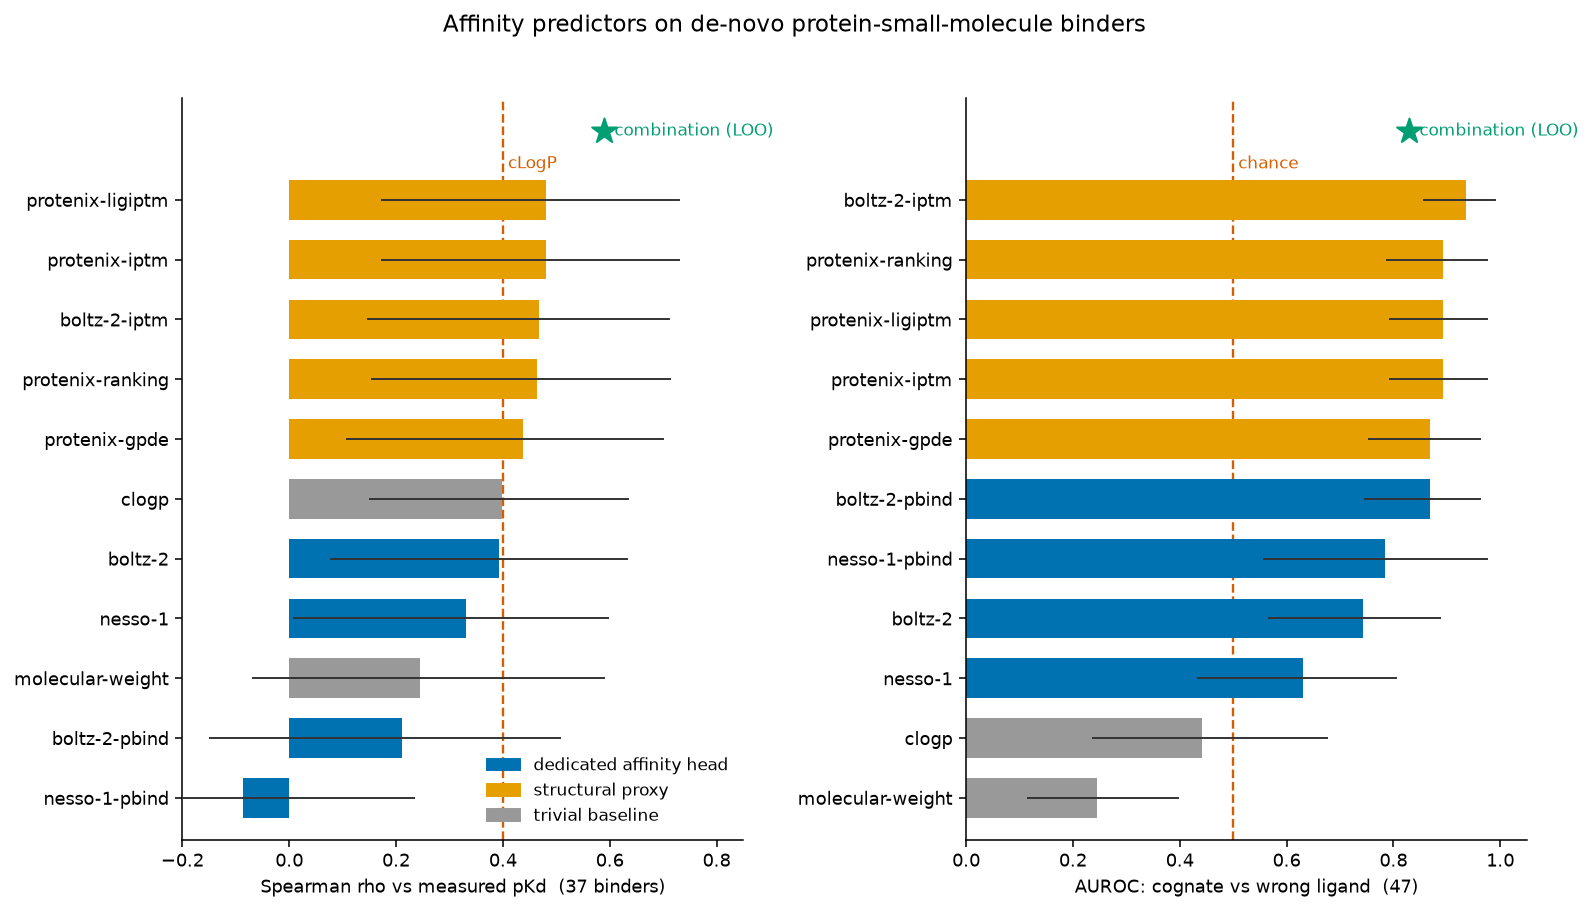
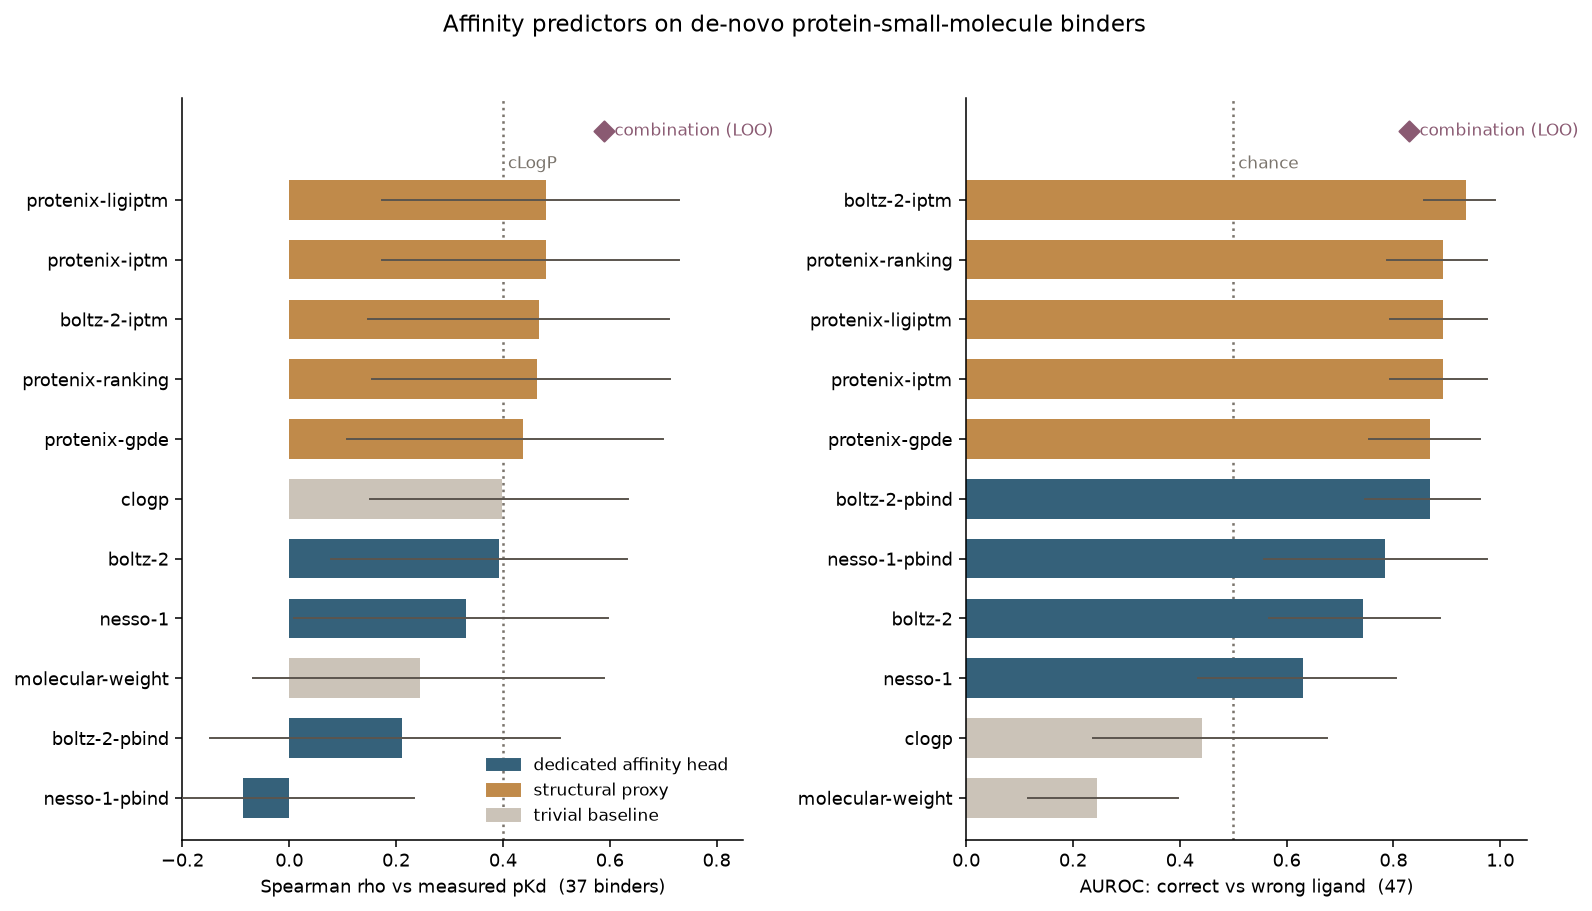
Minimal README + muted palette; rename cognate->correct; drop tests (CI lint-only)

diff --git a/scripts/make_figure.py b/scripts/make_figure.py
@@ -1,7 +1,7 @@
 """Two-panel benchmark figure: rank-affinity (Spearman, binders) and specificity (AUROC, all rows).
 
-Left: how well each method ranks measured pKd among the 37 binders (dashed = cLogP baseline, star =
-leave-one-out combination). Right: cognate vs wrong ligand (dashed = chance). Data + stats: score.py.
+Left: how well each method ranks measured pKd among the 37 binders (dotted = cLogP baseline, diamond
+= leave-one-out combination). Right: correct vs wrong ligand (dotted = chance). Stats: score.py.
 """
 
 from pathlib import Path
@@ -16,7 +16,8 @@ ROOT = Path(__file__).resolve().parents[1]
 CAT = {"boltz-2": "aff", "boltz-2-pbind": "aff", "nesso-1": "aff", "nesso-1-pbind": "aff",
        "boltz-2-iptm": "prox", "protenix-iptm": "prox", "protenix-ligiptm": "prox",
        "protenix-gpde": "prox", "protenix-ranking": "prox", "clogp": "base", "molecular-weight": "base"}
-COL = {"aff": "#0072B2", "prox": "#E69F00", "base": "#999999"}
+COL = {"aff": "#35617a", "prox": "#c08a4a", "base": "#cbc3b8"}   # muted slate / ochre / stone
+ACCENT, REF, WHISK = "#8a5a72", "#7a746c", "#5b554e"            # plum accent, neutral refs
 LABEL = {"aff": "dedicated affinity head", "prox": "structural proxy", "base": "trivial baseline"}
 COMBO_RHO, COMBO_AUROC = 0.59, 0.83   # leave-one-out CV, from score.py
 
@@ -26,11 +27,11 @@ def bars(ax, data, ref, ref_label, xlabel, combo, xlim):
     n = len(data); ys = range(n)
     for y, (k, v, lo, hi) in zip(ys, data):
         ax.barh(y, v, color=COL[CAT[k]], height=0.66, zorder=2)
-        ax.plot([lo, hi], [y, y], color="#333333", lw=1.0, zorder=3)
-    ax.axvline(ref, ls="--", lw=1.2, color="#D55E00", zorder=1)
-    ax.text(ref, n - 0.4, f" {ref_label}", color="#D55E00", fontsize=8.5, ha="left", va="center")
-    ax.scatter([combo], [n + 0.15], marker="*", s=180, color="#009E73", zorder=4, clip_on=False)
-    ax.text(combo, n + 0.15, "  combination (LOO)", color="#009E73", fontsize=8.5, va="center")
+        ax.plot([lo, hi], [y, y], color=WHISK, lw=1.0, zorder=3)
+    ax.axvline(ref, ls=":", lw=1.3, color=REF, zorder=1)
+    ax.text(ref, n - 0.4, f" {ref_label}", color=REF, fontsize=8.5, ha="left", va="center")
+    ax.scatter([combo], [n + 0.15], marker="D", s=54, color=ACCENT, zorder=4, clip_on=False)
+    ax.text(combo, n + 0.15, "  combination (LOO)", color=ACCENT, fontsize=8.5, va="center")
     ax.set_yticks(list(ys)); ax.set_yticklabels([k for k, *_ in data], fontsize=9.5)
     ax.set_ylim(-0.7, n + 0.7)
     ax.set_xlabel(xlabel, fontsize=9.5); ax.set_xlim(*xlim)
@@ -53,7 +54,7 @@ def main():
 
     fig, (a, b) = plt.subplots(1, 2, figsize=(11.5, 6.6))
     bars(a, reg, 0.40, "cLogP", "Spearman rho vs measured pKd  (37 binders)", COMBO_RHO, (-0.2, 0.85))
-    bars(b, spec, 0.5, "chance", "AUROC: cognate vs wrong ligand  (47)", COMBO_AUROC, (0.0, 1.05))
+    bars(b, spec, 0.5, "chance", "AUROC: correct vs wrong ligand  (47)", COMBO_AUROC, (0.0, 1.05))
     handles = [plt.Rectangle((0, 0), 1, 1, color=COL[c]) for c in ("aff", "prox", "base")]
     a.legend(handles, [LABEL[c] for c in ("aff", "prox", "base")], fontsize=8.5,
              loc="lower right", frameon=False)

diff --git a/scripts/score.py b/scripts/score.py
@@ -3,7 +3,7 @@
 Joins reference/experimental_reference_ground_truth.csv with every predictions/*_predictions.csv
 (by id) and evaluates:
   regression   on the 37 binders: does a method rank measured pKd? (Spearman/Pearson/RMSE + CI)
-  specificity  on all 47: can a method tell the cognate ligand from the wrong one? (AUROC)
+  specificity  on all 47: can a method tell the correct ligand from the wrong one? (AUROC)
   combine      leave-one-out CV: do methods combine to beat the best single one?
 """
 
@@ -99,7 +99,7 @@ def regression(rows, methods):
 
 
 def specificity(rows, methods):
-    print(f"\n== Specificity: cognate vs wrong ligand (AUROC, n={len(rows)}) ==")
+    print(f"\n== Specificity: correct vs wrong ligand (AUROC, n={len(rows)}) ==")
     print(f"{'method':20s}{'AUROC [95% CI]':>22s}")
     for m in methods:
         v = [(r[m], r["is_binder"]) for r in rows if r.get(m) is not None]

diff --git a/README.md b/README.md
@@ -1,82 +1,68 @@
 # de-novo small-molecule affinity benchmark
 
-Do protein-ligand affinity predictors work on **de-novo designed** binders? Existing affinity
-leaderboards score them on natural targets. This is a small, clean, complementary split built
-entirely from published de-novo designs: **47 protein-ligand pairs**, each a designed protein plus a
-small molecule, with an experimental label.
+Do protein-ligand affinity predictors work on **de-novo designed** binders? Affinity leaderboards
+score them on natural targets; this is a small complementary split built from published de-novo
+designs.
 
-- **37 cognate binders** with a measured KD (pKd), from published de-novo campaigns.
-- **10 matched-specificity negatives**: the same designed proteins paired with a *wrong* ligand
-  (confirmed non-binding). This makes the negatives hard: the protein is identical, only the ligand
-  is wrong, so a predictor must read the interface, not the fold.
+**47 protein-ligand pairs:**
+- **37 binders** with a measured KD (pKd).
+- **10 matched negatives**: the same designed protein paired with a *wrong* ligand (confirmed
+  non-binding), so a predictor has to read the interface, not just the fold.
 
-Six predictor families are scored the same way, with both cofolders converted to `pK = 6 -
-affinity_pred_value`: **Boltz-2** (affinity head + iptm), **Nesso-1**, **Protenix-v2** (iptm, gpde,
-ranking), and the trivial **MW / cLogP** baselines any real signal must beat.
+Six predictors, scored two ways (cofolders converted to `pK = 6 - affinity_pred_value`):
+[Boltz-2](https://github.com/jwohlwend/boltz) (affinity head + iptm),
+[Nesso-1](https://github.com/recursionpharma/nesso),
+[Protenix-v2](https://github.com/bytedance/Protenix) (iptm, gpde, ranking), and MW / cLogP baselines.
 
-## Two tasks
+## Results
 
 ![benchmark](figures/benchmark.png)
 
-*Rank affinity magnitude among the 37 binders (left, Spearman rho vs pKd) and tell the cognate ligand
-from the wrong one on all 47 (right, AUROC). Bars are 95% bootstrap CIs; dashed lines are the cLogP
-baseline (left) and chance (right); the star is a leave-one-out combination of four metrics.*
+Left panel: rank affinity among the 37 binders (Spearman vs pKd). Right panel: tell the correct
+ligand from the wrong one across all 47 (AUROC). Bars are 95% bootstrap CIs.
 
-**Ranking affinity magnitude is hard.** The dedicated affinity heads do not beat lipophilicity:
-Boltz-2 pK rho = +0.39, Nesso-1 pK = +0.33, versus cLogP = +0.40. Structural proxies edge it
-(Protenix / Boltz iptm ~ +0.48). Every CI is wide (n=37), so no single metric is clearly separated
-from cLogP. RMSE on pK is 1.3-1.5 here, versus Nesso's reported 0.86 on a natural-target benchmark: a
-distribution-shift gap.
+- **Ranking affinity is hard.** The dedicated affinity heads do not beat lipophilicity: Boltz-2
+  +0.39, Nesso-1 +0.33, versus cLogP +0.40. Structural confidence edges ahead (iptm ~+0.48). CIs are
+  wide at n=37.
+- **Discriminating binding is easy.** Cofolders separate the correct ligand from the wrong one
+  cleanly (Boltz-2 iptm AUROC 0.94), while the baselines sit at chance.
+- **Metrics combine.** A leave-one-out combination reaches +0.59 for ranking, above any single
+  metric; specificity does not improve over Boltz-2 iptm alone.
 
-**Discriminating binding is easy.** The cofolders cleanly separate the cognate ligand from the wrong
-one (Boltz-2 iptm AUROC = 0.94, Protenix iptm / ranking = 0.89, Boltz pbind = 0.87), while the
-baselines are at or below chance (cLogP 0.44, MW 0.24). So the models genuinely read the interface,
-they just cannot rank affinity *magnitude* among true binders.
-
-**Metrics combine.** A leave-one-out combination of Boltz-2 pK, Nesso-1 pK, Protenix lig-iptm, and
-cLogP reaches rho = +0.59 for ranking, above any single metric (specificity does not improve over
-Boltz-2 iptm alone). The signals are complementary.
-
-| task | best single | cLogP baseline | combination (LOO) |
+| task | best single | cLogP | combination (LOO) |
 |---|---|---|---|
-| rank pKd (37, Spearman) | +0.48 (protenix iptm) | +0.40 | **+0.59** |
-| specificity (47, AUROC) | 0.94 (boltz iptm) | 0.44 | 0.83 |
+| rank pKd (Spearman) | +0.48 | +0.40 | **+0.59** |
+| tell right from wrong ligand (AUROC) | 0.94 | 0.44 | 0.83 |
 
 ## Caveats
 
-- **Small n** (37 binders, 10 negatives). CIs are wide; treat single-metric orderings as suggestive.
-- **Related judges.** Boltz-2, Nesso-1, and Protenix share the AF3-style cofolding family; they are
-  not independent oracles.
-- **Curated panel**, not an unbiased sample: it is the de-novo designs with public sequences,
-  ligands, and labels that could be assembled.
-- **In silico labels for negatives** are experimental non-binders from the source papers, but the
-  positives' KDs come from several assays (ITC / SPR / MST / fluorescence) and are not cross-calibrated.
+Small n (37 + 10), so CIs are wide and single-metric orderings are suggestive. The three cofolders
+share the AF3-style family and are not independent. Positive KDs come from mixed assays (ITC / SPR /
+MST / fluorescence) and are not cross-calibrated.
 
-## Reproduce
-
-```
-# 1. run each predictor (cofolders need their own GPU env) + the RDKit baselines
-CUDA_VISIBLE_DEVICES=0 BOLTZ=/path/to/boltz            python scripts/run_predictors.py boltz
-CUDA_VISIBLE_DEVICES=0 NESSO=/path/to/nesso            python scripts/run_predictors.py nesso
-CUDA_VISIBLE_DEVICES=0 PROTENIX_DIR=/path/to/Protenix  python scripts/run_predictors.py protenix
-python scripts/run_predictors.py baselines
-# 2. score + figure
-python scripts/score.py
-python scripts/make_figure.py
-```
-
-Layout:
+## Layout
 
 ```
 reference/experimental_reference_ground_truth.csv   id, is_binder, experimental_pKD
 reference/system_reference.csv                       id, protein, ligand_name, sequence, smiles, source, source_url
-predictions/<method>_predictions.csv                 method, id, predicted_affinity   (one file per method, strict 3 columns)
+predictions/<method>_predictions.csv                 method, id, predicted_affinity
 ```
 
-Predictions join to the reference by `id`; every `predictions/*.csv` is scored automatically.
+Every `predictions/*.csv` joins to the reference by `id` and is scored automatically.
+
+## Reproduce
+
+```
+# each cofolder needs its own GPU env; baselines are RDKit
+CUDA_VISIBLE_DEVICES=0 BOLTZ=/path/to/boltz            python scripts/run_predictors.py boltz
+CUDA_VISIBLE_DEVICES=0 NESSO=/path/to/nesso            python scripts/run_predictors.py nesso
+CUDA_VISIBLE_DEVICES=0 PROTENIX_DIR=/path/to/Protenix  python scripts/run_predictors.py protenix
+python scripts/run_predictors.py baselines
+python scripts/score.py
+python scripts/make_figure.py
+```
 
 ## Credit
 
-Predictors: [Boltz-2](https://github.com/jwohlwend/boltz), [Nesso-1](https://github.com/recursionpharma/nesso),
-[Protenix](https://github.com/bytedance/Protenix). De-novo designs and labels are from the source
-papers cited per row (`source`, `source_url`) in `reference/system_reference.csv`.
+De-novo designs and labels are from the papers cited per row (`source`, `source_url`) in
+`reference/system_reference.csv`.
